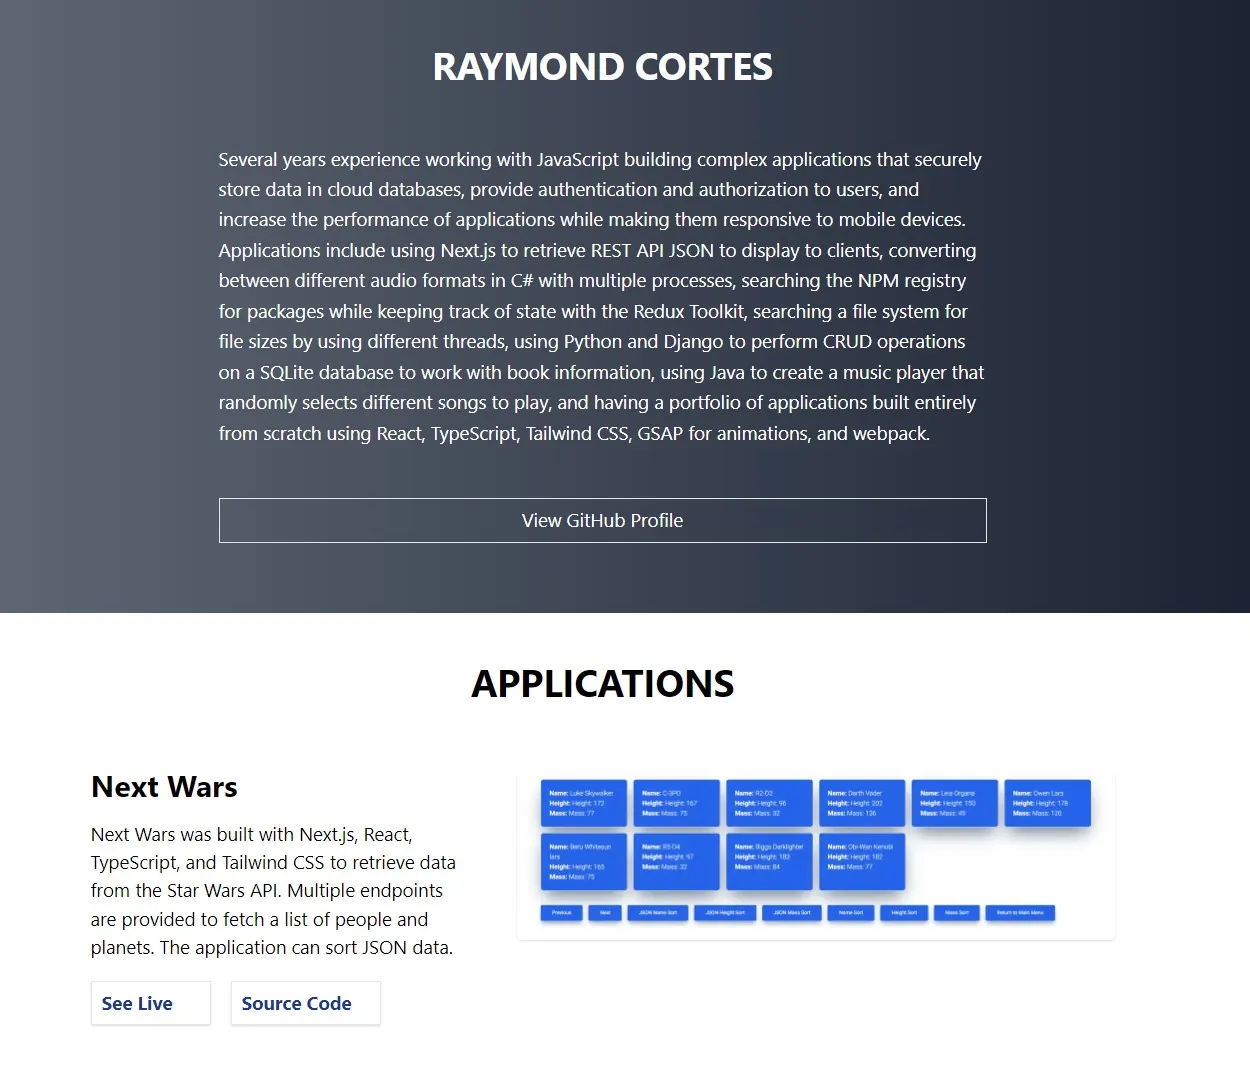
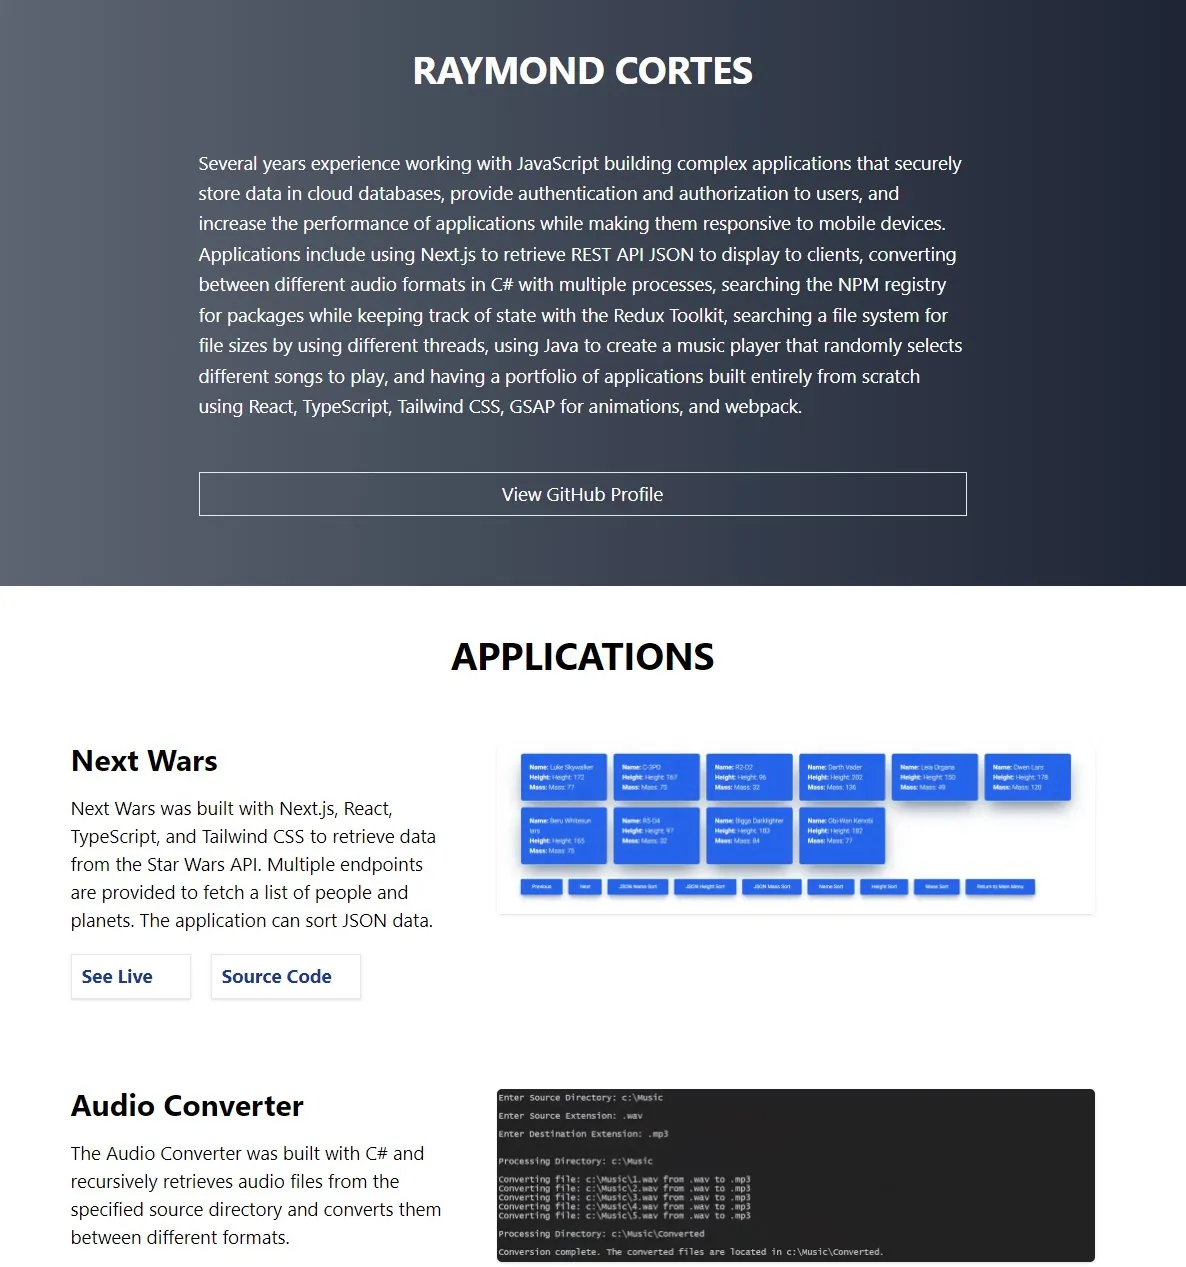
refactor application code

diff --git a/src/components/Container/Container.tsx b/src/components/Container/Container.tsx
@@ -3,13 +3,12 @@ import gsap from 'gsap';
 import { Header } from '../Header/Header';
 import { NextWars } from '../NextWars/NextWars';
 import { AudioConverter } from '../AudioConverter/AudioConverter';
+import { JavaMortgage } from '../JavaMortgage/JavaMortgage';
 import { PackageSearch } from '../PackageSearch/PackageSearch';
 import { ThreadSearch } from '../ThreadSearch/ThreadSearch';
 import { JavaMusic } from '../JavaMusic/JavaMusic';
-import { PyBook } from '../PyBook/PyBook';
 import { CodingChallenge } from '../CodingChallenge/CodingChallenge';
 import { ReactMessage } from '../ReactMessage/ReactMessage';
-import { JavaMortgage } from '../JavaMortgage/JavaMortgage';
 import { Footer } from '../Footer/Footer';
 
 export const Container: React.FC = () => {
@@ -33,13 +32,12 @@ export const Container: React.FC = () => {
       </h2>
       <NextWars />
       <AudioConverter />
+      <JavaMortgage />
       <PackageSearch />
       <ThreadSearch />
       <JavaMusic />
-      <PyBook />
       <CodingChallenge />
       <ReactMessage />
-      <JavaMortgage />
       <Footer />
     </>
   );

diff --git a/src/components/Header/Header.tsx b/src/components/Header/Header.tsx
@@ -27,11 +27,10 @@ export const Header: React.FC = () => {
             formats in C# with multiple processes, searching the NPM registry
             for packages while keeping track of state with the Redux Toolkit,
             searching a file system for file sizes by using different threads,
-            using Python and Django to perform CRUD operations on a SQLite
-            database to work with book information, using Java to create a music
-            player that randomly selects different songs to play, and having a
-            portfolio of applications built entirely from scratch using React,
-            TypeScript, Tailwind CSS, GSAP for animations, and webpack.
+            using Java to create a music player that randomly selects different
+            songs to play, and having a portfolio of applications built entirely
+            from scratch using React, TypeScript, Tailwind CSS, GSAP for
+            animations, and webpack.
           </p>
           <a
             href='https://github.com/xiraynedev'

diff --git a/README.md b/README.md
@@ -10,7 +10,7 @@
 
 ## See the application live [here](https://portfolio-apps.netlify.app/)
 
-A portfolio of applications using React, Next.js, TypeScript, Java, C#, Python, C, Django, HTML, CSS, SCSS, Tailwind CSS, webpack, Babel, and Maven.
+A portfolio of applications using React, Next.js, TypeScript, Java, C#, HTML, CSS, SCSS, Tailwind CSS, and webpack.
 
 ![application screenshot](application-screenshot.webp)
 
